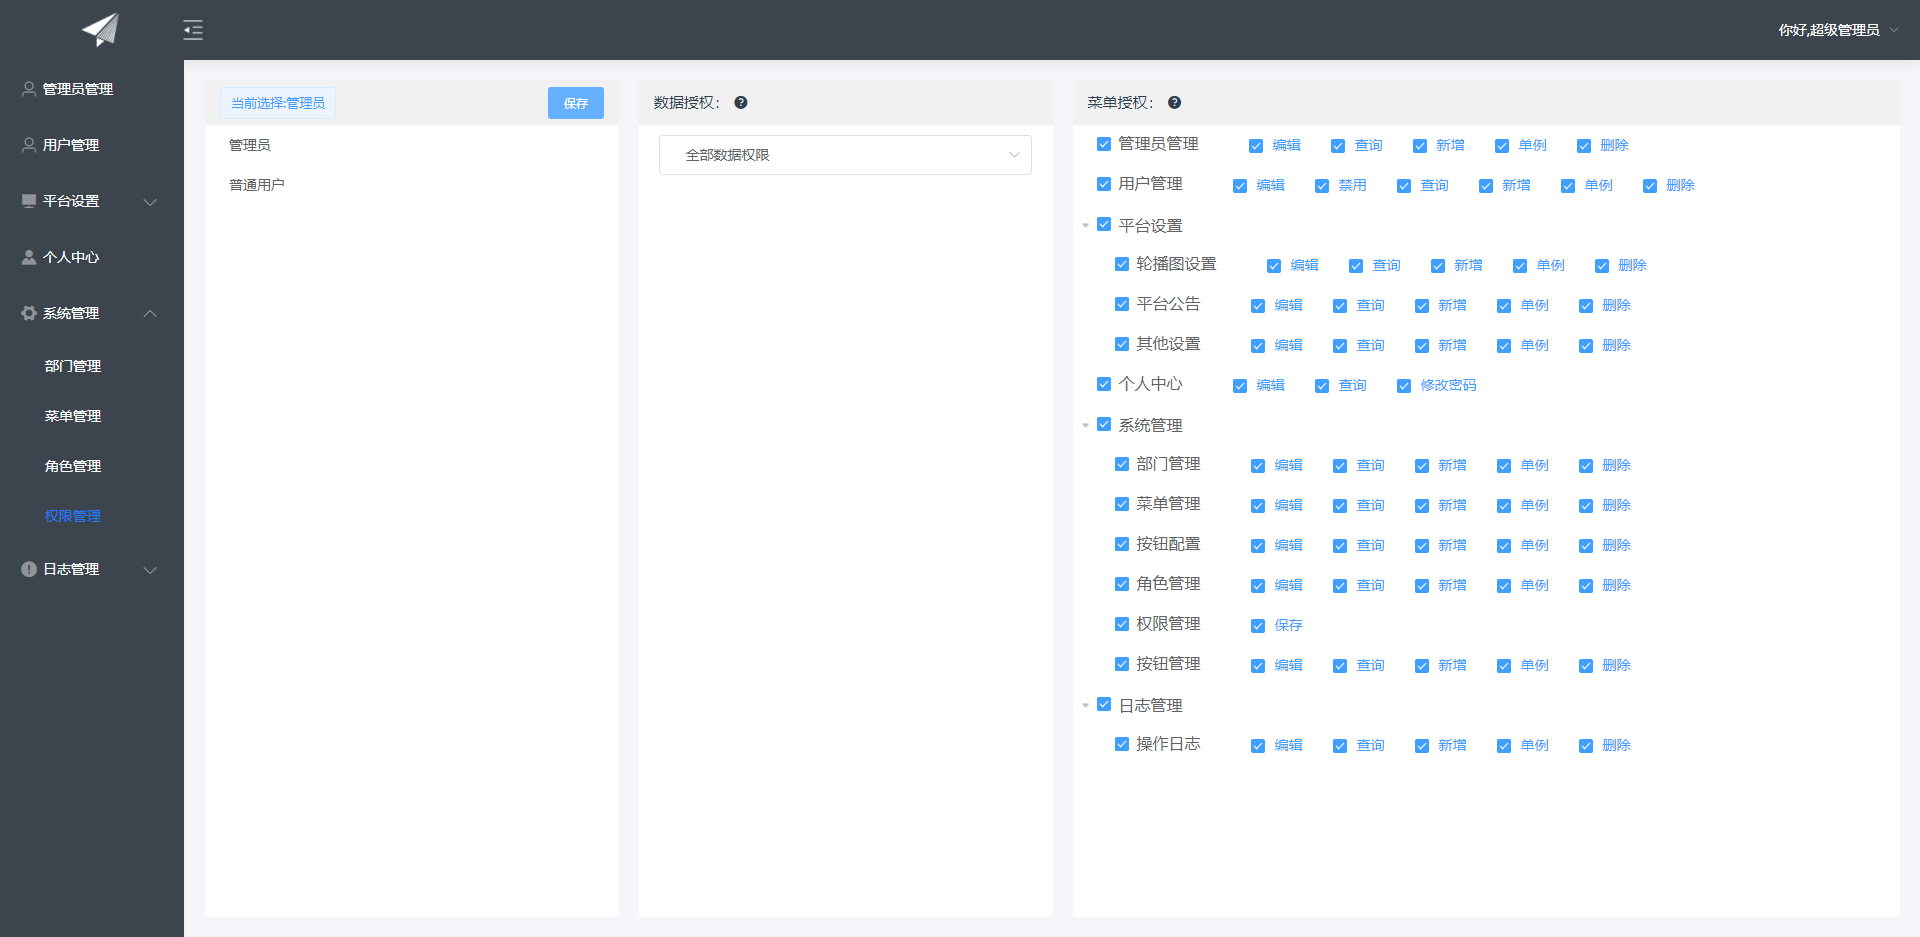
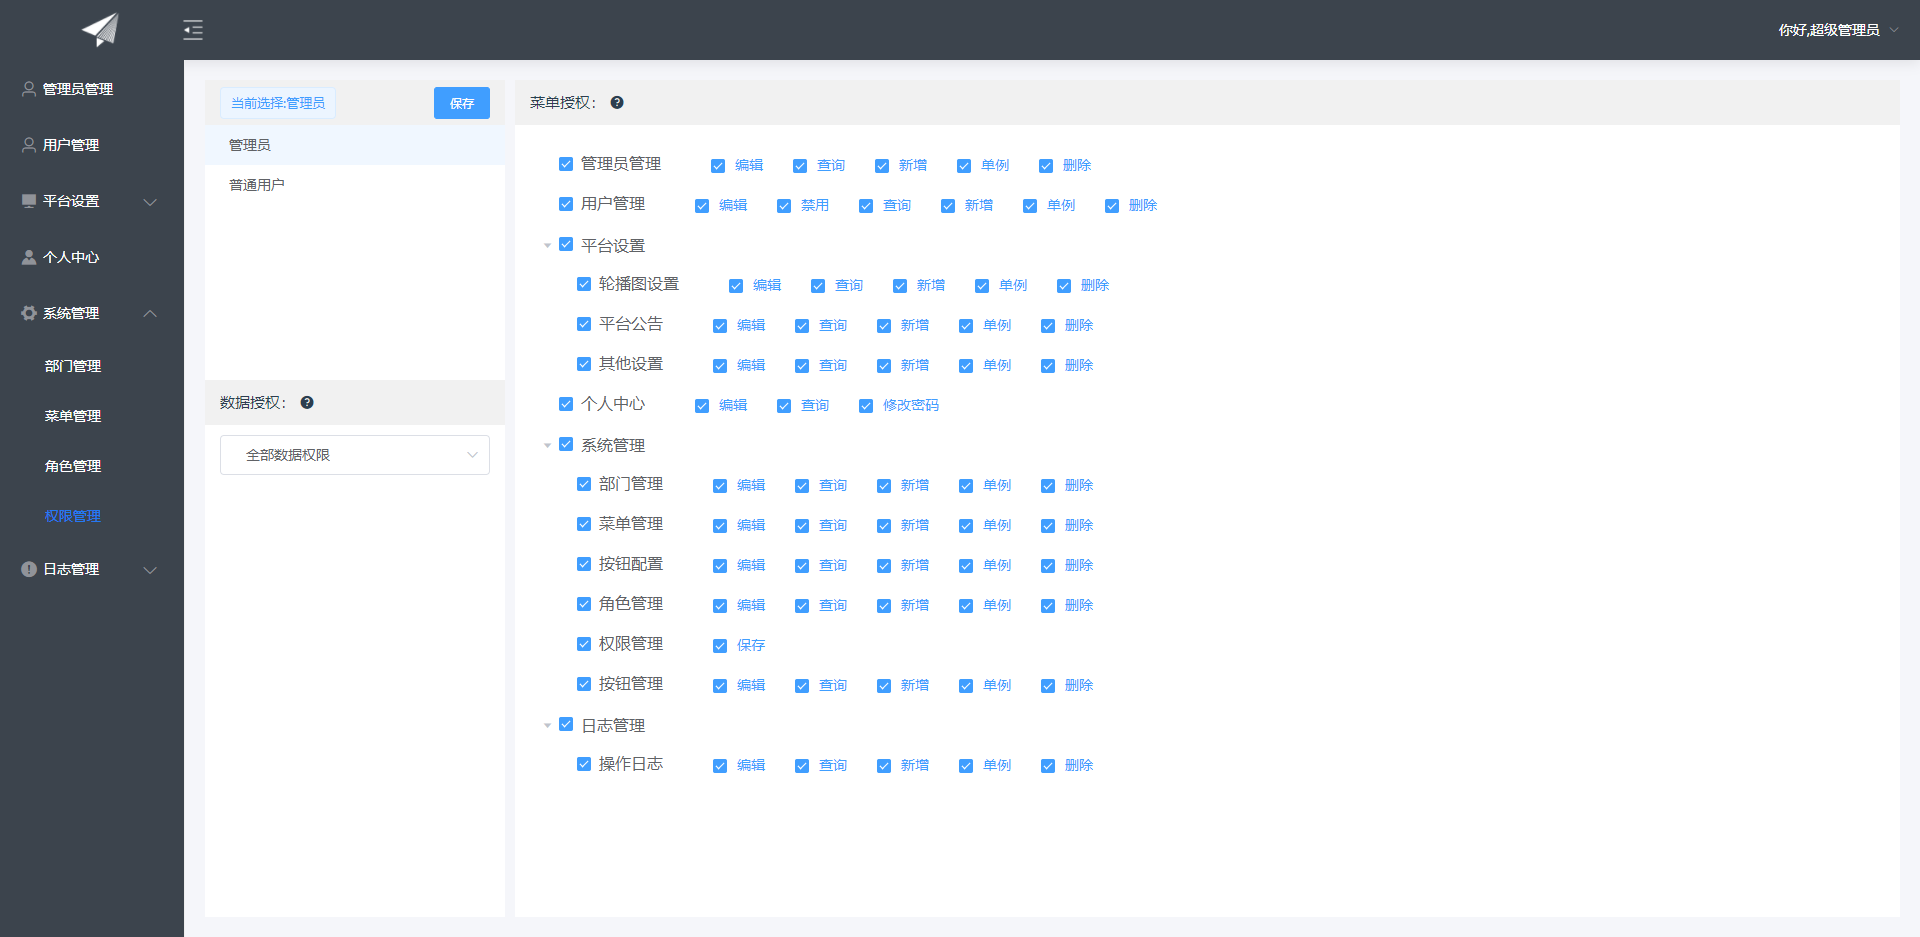
前端菜单权限显示优化

diff --git a/frontend/src/views/systemManage/authorityManage/authorityManage.vue b/frontend/src/views/systemManage/authorityManage/authorityManage.vue
@@ -1,7 +1,7 @@
 <template>
-    <div>
-        <div class="auth-outer">
-            <div class="auth-item">
+    <div class="auth-outer">
+        <div>
+            <div class="auth-item" style="min-width: 300px;height: 300px">
                 <div class="auth-item-header">
                     <el-tag style="font-size: 13px">当前选择:{{ roleObj.name ? roleObj.name : "无" }}</el-tag>
                     <el-button type="primary"  @click="submitPermisson" size="small">保存</el-button>
@@ -19,7 +19,7 @@
                 >
                 </el-tree>
             </div>
-            <div class="auth-item">
+            <div class="auth-item" style="height: calc(100vh - 400px);">
                 <div class="auth-title">
                     数据授权：
                     <el-tooltip
@@ -55,19 +55,19 @@
                 ></el-tree>
 
             </div>
-
-            <div class="auth-item" >
-                <div class="auth-title">
-                    菜单授权：
-                    <el-tooltip
-                        class="item"
-                        effect="dark"
-                        content="授权用户在菜单中可操作的范围"
-                        placement="right">
-                        <el-icon class="el-icon-question"></el-icon>
-                    </el-tooltip>
-                </div>
-
+        </div>
+        <div class="auth-item" style="height: calc(100vh - 100px);">
+            <div class="auth-title">
+                菜单授权：
+                <el-tooltip
+                    class="item"
+                    effect="dark"
+                    content="授权用户在菜单中可操作的范围"
+                    placement="right">
+                    <el-icon class="el-icon-question"></el-icon>
+                </el-tooltip>
+            </div>
+            <div style="margin: 20px">
                 <el-tree
                     ref="menuTree"
                     :data="menuOptions"
@@ -312,14 +312,13 @@
     }
     .auth-outer{
         display: flex;
-        column-gap: 20px;
+        column-gap: 10px;
         .auth-item{
             flex: 1;
-            height: calc(100vh - 100px);
             background: #ffffff;
-            &:last-child{
-                flex: 2;
-            }
+            /*&:last-child{*/
+            /*    flex: 2;*/
+            /*}*/
             .auth-item-header{
                 background: #f1f1f1;
                 padding: 6.5px 15px;
